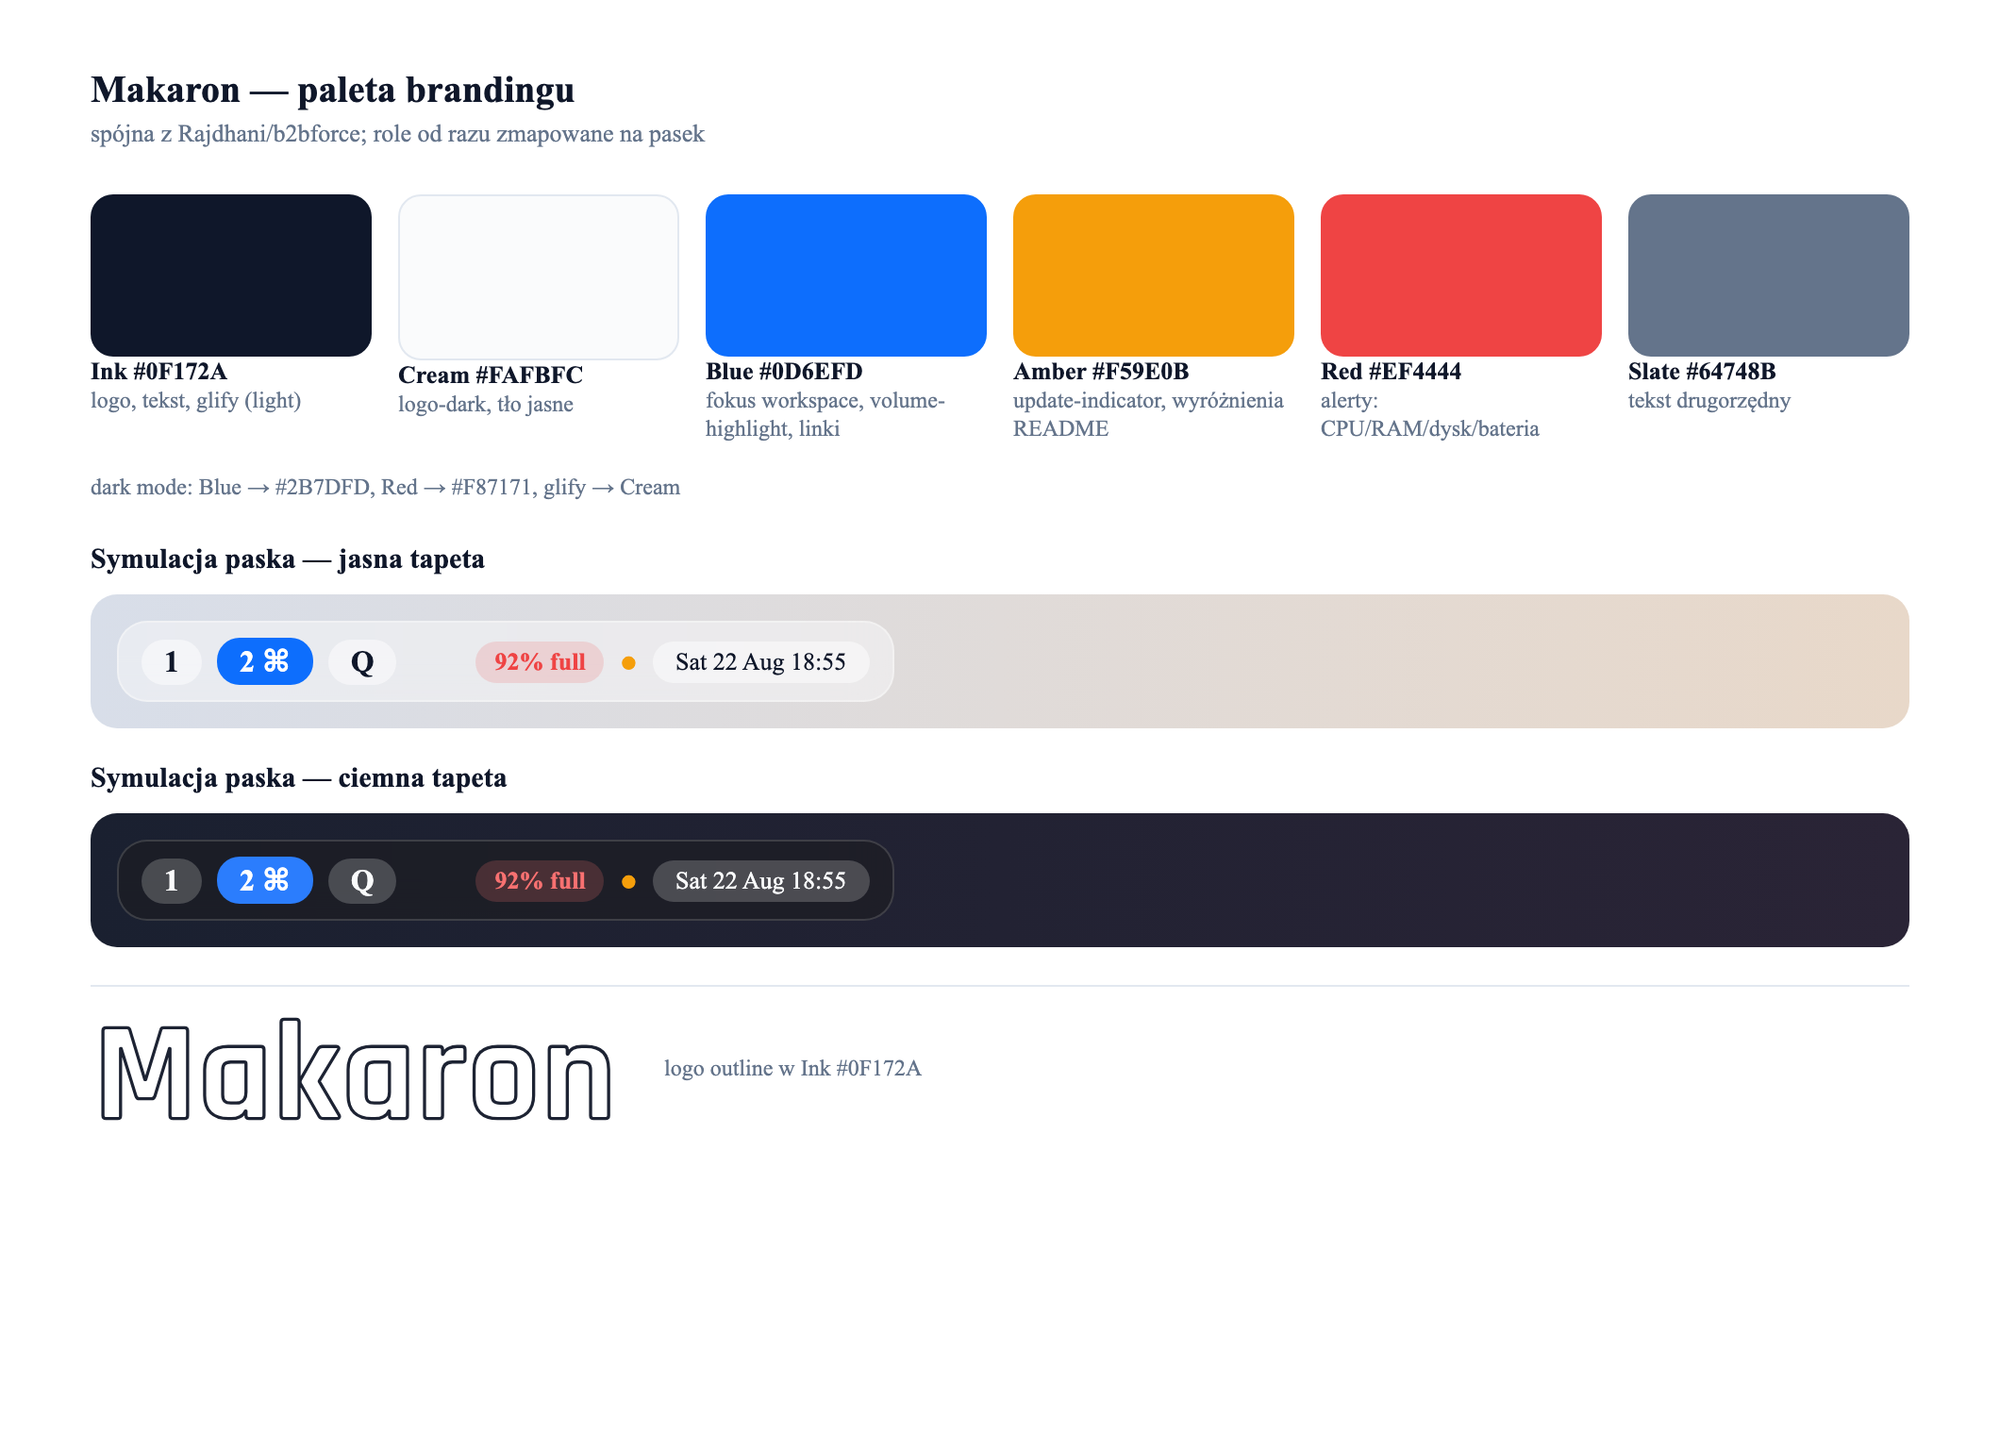
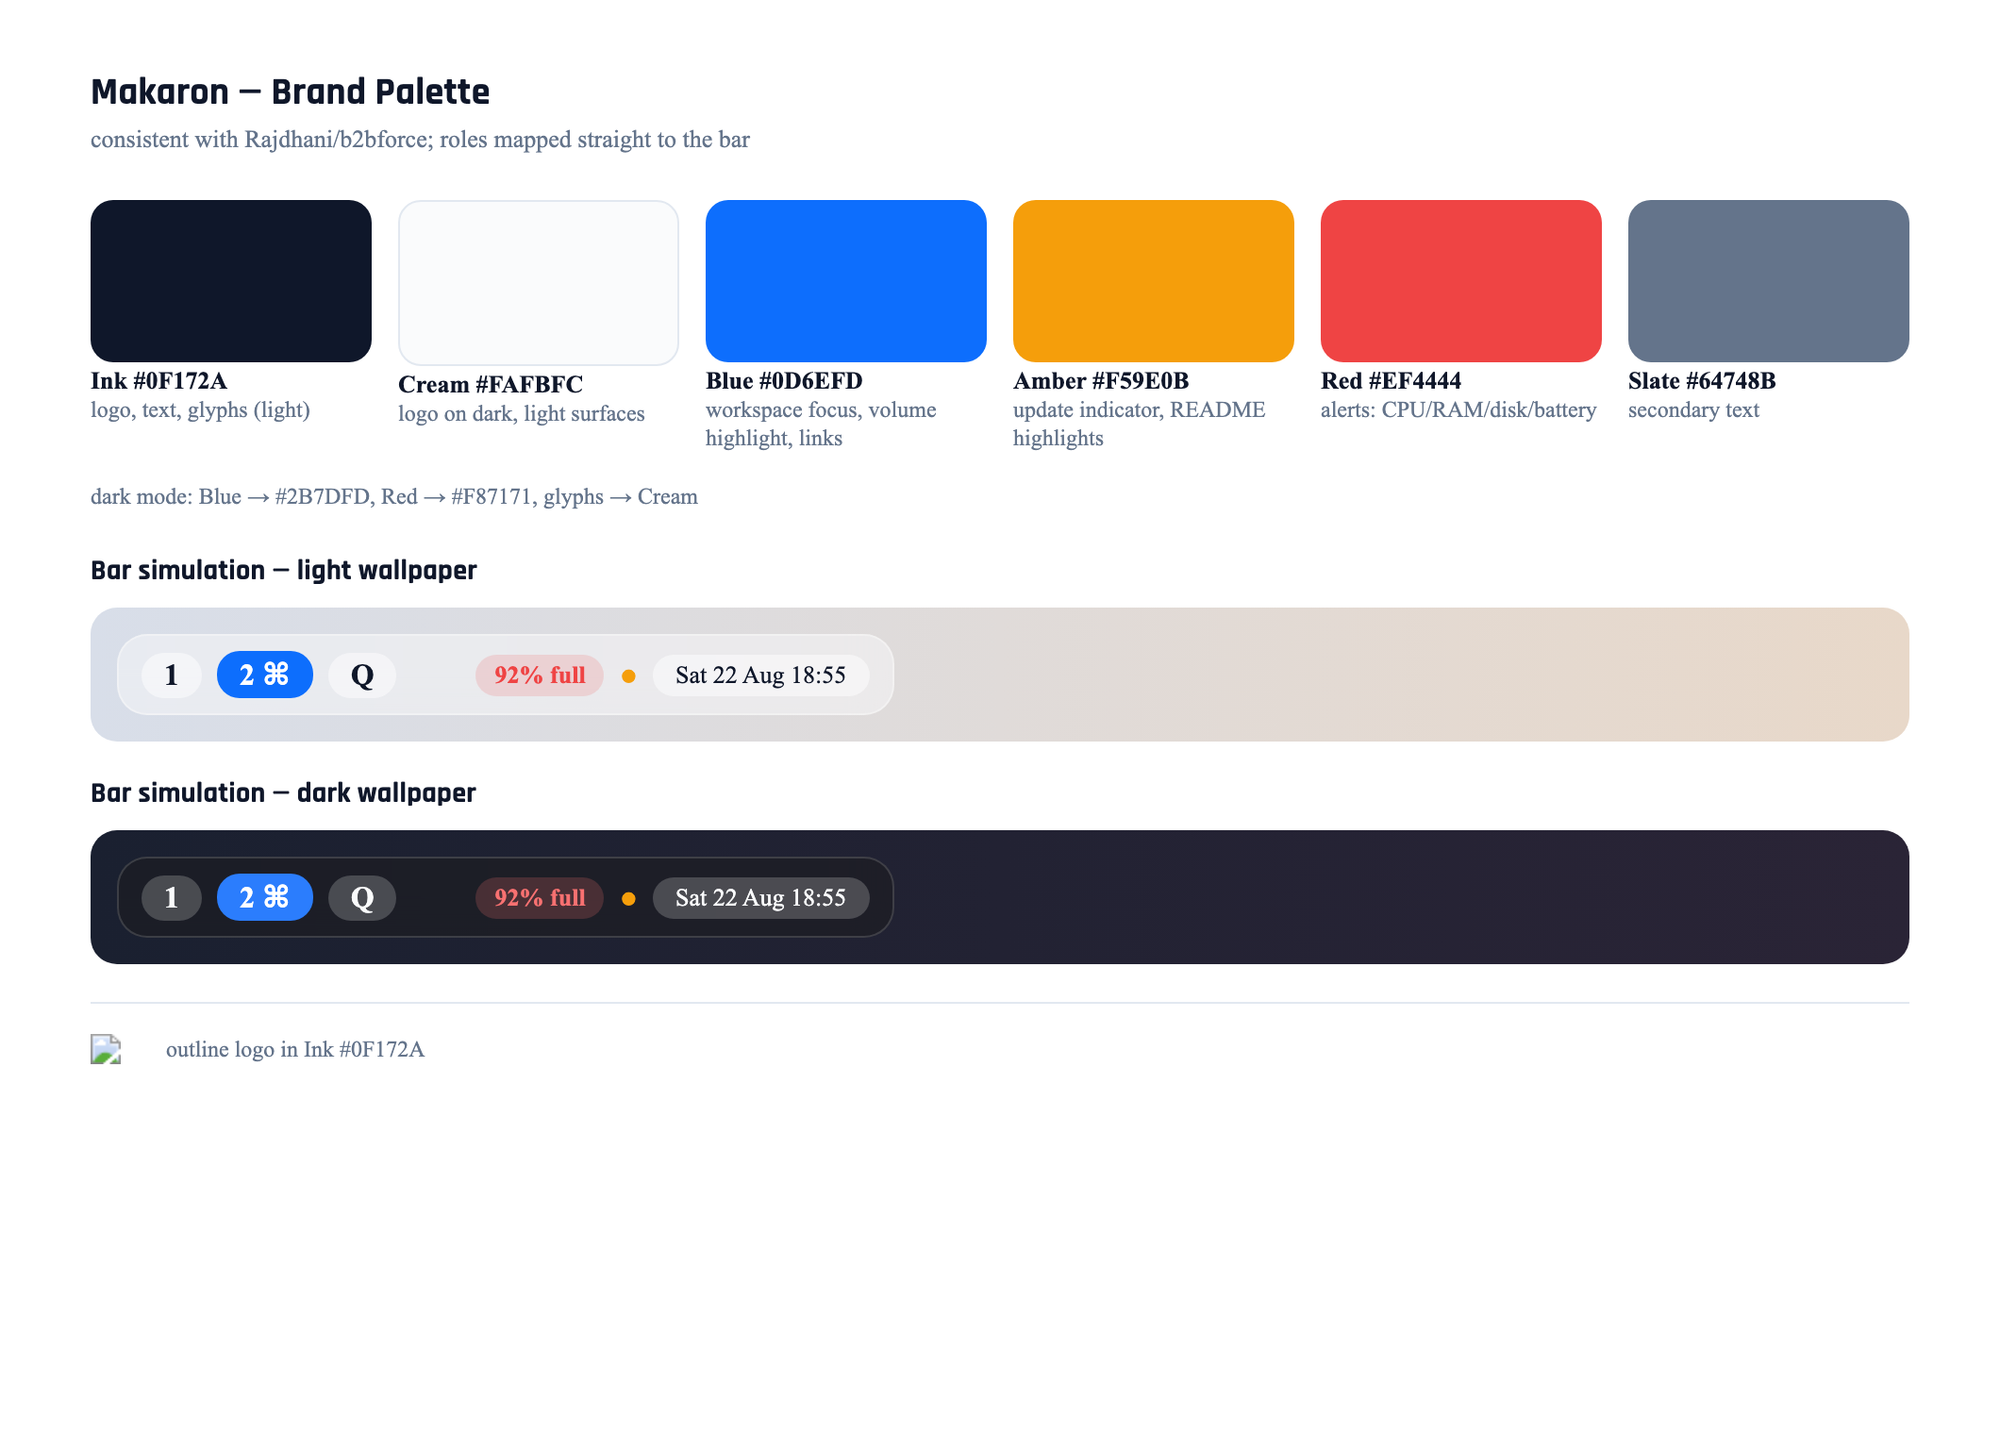
Bare outline M mark with breathing room; palette source in English with proper charset and web fonts
Claude-Session: https://claude.ai/code/session_01RigBB6NdbeXR9dqutQGQ7z

diff --git a/assets/branding/palette.html b/assets/branding/palette.html
@@ -1,18 +1,32 @@
+<!doctype html>
+<html lang="en">
+<head>
+<meta charset="utf-8">
+<meta name="viewport" content="width=device-width, initial-scale=1">
+<title>Makaron — Brand Palette</title>
+<link rel="preconnect" href="https://fonts.googleapis.com">
+<link rel="preconnect" href="https://fonts.gstatic.com" crossorigin>
+<link href="https://fonts.googleapis.com/css2?family=Rajdhani:wght@600;700&family=DM+Sans:opsz,wght@9..40,400;9..40,500;9..40,600&display=swap" rel="stylesheet">
+<style>
+  body { font-family: "DM Sans", -apple-system, sans-serif; }
+  h2, h3 { font-family: "Rajdhani", sans-serif; letter-spacing: .01em; }
+</style>
+</head>
 <body style="margin:0;font-family:-apple-system;background:#fff;color:#0f172a">
 <div style="padding:36px 48px">
-  <h2 style="margin:0 0 4px;font-size:20px">Makaron — paleta brandingu</h2>
-  <div style="color:#64748b;font-size:13px;margin-bottom:24px">spójna z Rajdhani/b2bforce; role od razu zmapowane na pasek</div>
+  <h2 style="margin:0 0 4px;font-size:20px">Makaron — Brand Palette</h2>
+  <div style="color:#64748b;font-size:13px;margin-bottom:24px">consistent with Rajdhani/b2bforce; roles mapped straight to the bar</div>
   <div style="display:flex;gap:14px;margin-bottom:8px">
-    <div style="width:150px"><div style="height:86px;background:#0F172A;border-radius:12px"></div><b style="font-size:13px">Ink #0F172A</b><div style="color:#64748b;font-size:12px">logo, tekst, glify (light)</div></div>
-    <div style="width:150px"><div style="height:86px;background:#FAFBFC;border:1px solid #e2e8f0;border-radius:12px"></div><b style="font-size:13px">Cream #FAFBFC</b><div style="color:#64748b;font-size:12px">logo-dark, tło jasne</div></div>
-    <div style="width:150px"><div style="height:86px;background:#0D6EFD;border-radius:12px"></div><b style="font-size:13px">Blue #0D6EFD</b><div style="color:#64748b;font-size:12px">fokus workspace, volume-highlight, linki</div></div>
-    <div style="width:150px"><div style="height:86px;background:#F59E0B;border-radius:12px"></div><b style="font-size:13px">Amber #F59E0B</b><div style="color:#64748b;font-size:12px">update-indicator, wyróżnienia README</div></div>
-    <div style="width:150px"><div style="height:86px;background:#EF4444;border-radius:12px"></div><b style="font-size:13px">Red #EF4444</b><div style="color:#64748b;font-size:12px">alerty: CPU/RAM/dysk/bateria</div></div>
-    <div style="width:150px"><div style="height:86px;background:#64748B;border-radius:12px"></div><b style="font-size:13px">Slate #64748B</b><div style="color:#64748b;font-size:12px">tekst drugorzędny</div></div>
+    <div style="width:150px"><div style="height:86px;background:#0F172A;border-radius:12px"></div><b style="font-size:13px">Ink #0F172A</b><div style="color:#64748b;font-size:12px">logo, text, glyphs (light)</div></div>
+    <div style="width:150px"><div style="height:86px;background:#FAFBFC;border:1px solid #e2e8f0;border-radius:12px"></div><b style="font-size:13px">Cream #FAFBFC</b><div style="color:#64748b;font-size:12px">logo on dark, light surfaces</div></div>
+    <div style="width:150px"><div style="height:86px;background:#0D6EFD;border-radius:12px"></div><b style="font-size:13px">Blue #0D6EFD</b><div style="color:#64748b;font-size:12px">workspace focus, volume highlight, links</div></div>
+    <div style="width:150px"><div style="height:86px;background:#F59E0B;border-radius:12px"></div><b style="font-size:13px">Amber #F59E0B</b><div style="color:#64748b;font-size:12px">update indicator, README highlights</div></div>
+    <div style="width:150px"><div style="height:86px;background:#EF4444;border-radius:12px"></div><b style="font-size:13px">Red #EF4444</b><div style="color:#64748b;font-size:12px">alerts: CPU/RAM/disk/battery</div></div>
+    <div style="width:150px"><div style="height:86px;background:#64748B;border-radius:12px"></div><b style="font-size:13px">Slate #64748B</b><div style="color:#64748b;font-size:12px">secondary text</div></div>
   </div>
-  <div style="color:#64748b;font-size:12px;margin:16px 0 6px">dark mode: Blue → #2B7DFD, Red → #F87171, glify → Cream</div>
+  <div style="color:#64748b;font-size:12px;margin:16px 0 6px">dark mode: Blue → #2B7DFD, Red → #F87171, glyphs → Cream</div>
 
-  <h3 style="margin:22px 0 10px;font-size:15px">Symulacja paska — jasna tapeta</h3>
+  <h3 style="margin:22px 0 10px;font-size:15px">Bar simulation — light wallpaper</h3>
   <div style="background:linear-gradient(90deg,#d8dee9,#e8d8c9);padding:14px;border-radius:14px">
     <div style="display:inline-flex;align-items:center;gap:8px;background:rgba(245,245,247,.55);backdrop-filter:blur(10px);border:1px solid rgba(255,255,255,.35);border-radius:16px;padding:8px 12px">
       <span style="background:rgba(255,255,255,.5);border-radius:12px;padding:3px 12px;font-weight:600">1</span>
@@ -25,7 +39,7 @@
     </div>
   </div>
 
-  <h3 style="margin:18px 0 10px;font-size:15px">Symulacja paska — ciemna tapeta</h3>
+  <h3 style="margin:18px 0 10px;font-size:15px">Bar simulation — dark wallpaper</h3>
   <div style="background:linear-gradient(90deg,#1a2030,#2a2436);padding:14px;border-radius:14px">
     <div style="display:inline-flex;align-items:center;gap:8px;background:rgba(28,28,30,.55);backdrop-filter:blur(10px);border:1px solid rgba(255,255,255,.15);border-radius:16px;padding:8px 12px;color:#FAFBFC">
       <span style="background:rgba(255,255,255,.2);border-radius:12px;padding:3px 12px;font-weight:600">1</span>
@@ -39,7 +53,9 @@
   </div>
   <div style="margin-top:20px;padding-top:14px;border-top:1px solid #e2e8f0">
     <img src="./makaron-logo-outline.svg" style="width:280px;vertical-align:middle">
-    <span style="color:#64748b;font-size:12px;margin-left:20px">logo outline w Ink #0F172A</span>
+    <span style="color:#64748b;font-size:12px;margin-left:20px">outline logo in Ink #0F172A</span>
   </div>
 </div>
 </body>
+
+</html>
